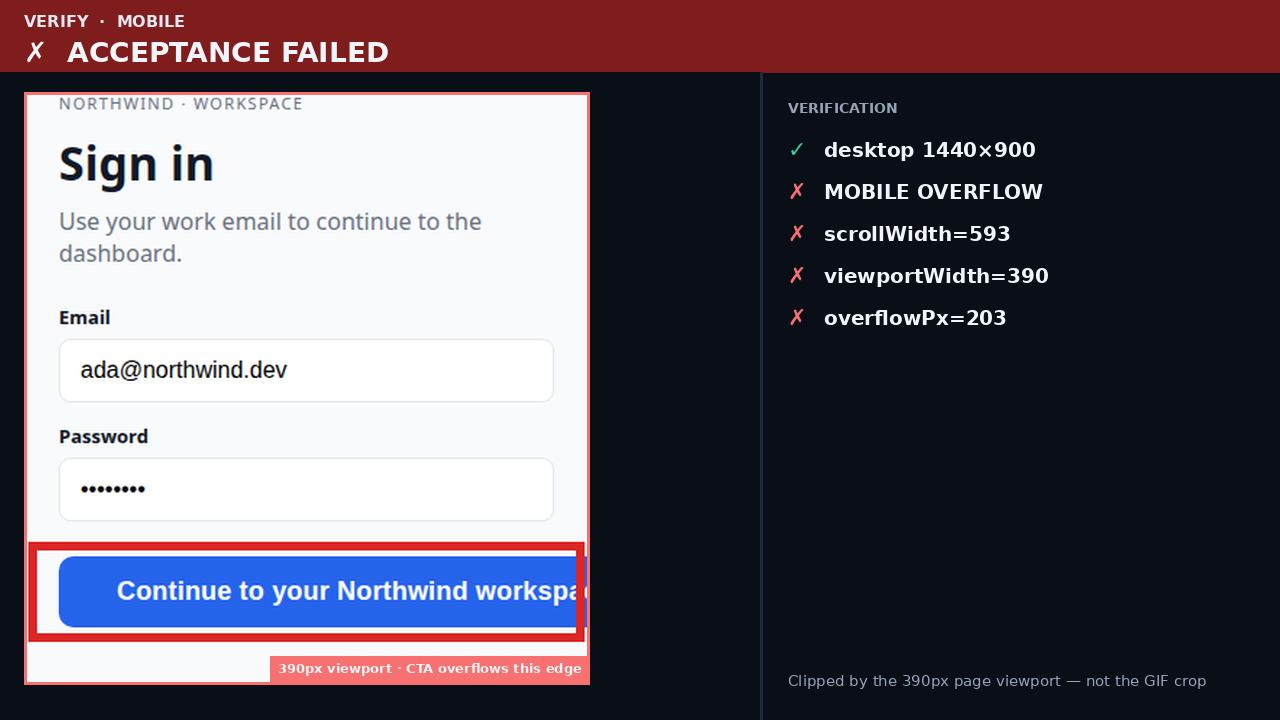
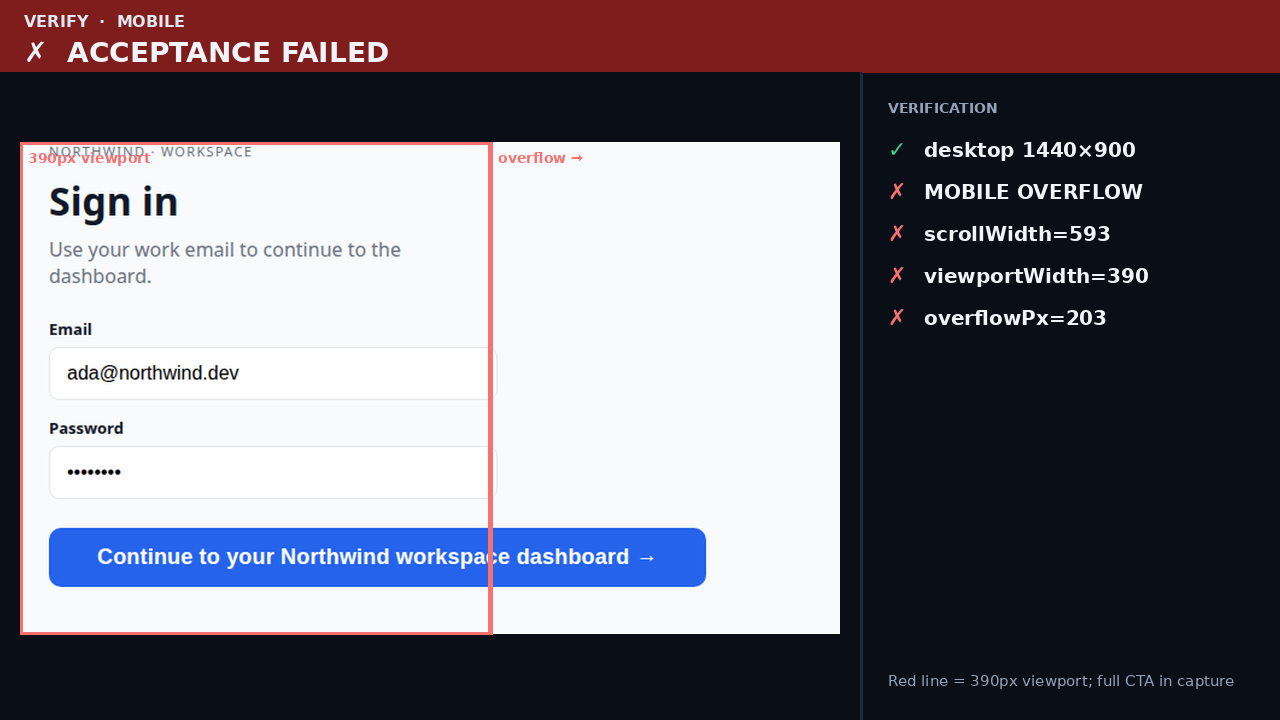
Show the full CTA in the hero GIF using a wide Chromium capture.
Failure frames overlay the real 390px viewport on a wider screenshot so
overflow is visible without the GIF canvas cutting the button text.

Changed region(s): [[0.0, 0.1222, 0.9062, 0.9778], [0.625, 0.9167, 0.9375, 0.9778], [0.5938, 0.9167, 0.625, 0.9472]]

diff --git a/scripts/build_release_assets.py b/scripts/build_release_assets.py
@@ -221,7 +221,28 @@ def social() -> Image.Image:
 
 W, H = 1280, 720
 HEAD_H = 72
-LEFT_W = 760
+LEFT_W = 860
+
+
+def capture_login(url: str, width: int, height: int) -> Image.Image:
+    """Real Chromium screenshot at an explicit viewport. Used only for GIF composition."""
+    from io import BytesIO
+
+    from playwright.sync_api import sync_playwright
+
+    with sync_playwright() as playwright:
+        browser = playwright.chromium.launch(headless=True)
+        try:
+            page = browser.new_page(
+                viewport={"width": width, "height": height},
+                device_scale_factor=1,
+            )
+            page.goto(url.rstrip("/") + "/login", wait_until="networkidle", timeout=20000)
+            page.wait_for_timeout(200)
+            data = page.screenshot(type="png")
+        finally:
+            browser.close()
+    return Image.open(BytesIO(data)).convert("RGB")
 
 
 def fit_contain(img: Image.Image, tw: int, th: int) -> Image.Image:
@@ -285,6 +306,7 @@ def hero_stage(
     footer: str,
     mood: str = "neutral",
     view: str = "desktop",
+    viewport_px: int | None = None,
 ) -> Image.Image:
     img = Image.new("RGB", (W, H), BG)
     draw = ImageDraw.Draw(img)
@@ -295,20 +317,25 @@ def hero_stage(
 
     pane = Image.new("RGB", (LEFT_W, H - HEAD_H), BG)
     pd = ImageDraw.Draw(pane)
-    inner_w, inner_h = LEFT_W - 48, H - HEAD_H - 56
+    inner_w, inner_h = LEFT_W - 40, H - HEAD_H - 48
     fitted = fit_contain(browser.convert("RGB"), inner_w, inner_h)
-    px = 24
-    py = 20 + max(0, (inner_h - fitted.height) // 2)
+    px = 20
+    py = 16 + max(0, (inner_h - fitted.height) // 2)
     pane.paste(fitted, (px, py))
-    if view.startswith("mobile"):
-        edge = RED if view == "mobile-fail" else GREEN
-        pd.rectangle((px, py, px + fitted.width, py + fitted.height), outline=edge, width=3)
-        tag = "390px viewport · CTA overflows this edge" if view == "mobile-fail" else "390px viewport · CTA fully inside"
+    if view == "mobile-fail" and viewport_px:
+        scale = fitted.width / browser.width
+        edge = px + int(viewport_px * scale)
+        pd.rectangle((px, py, edge, py + fitted.height), outline=RED, width=3)
+        pd.line((edge, py, edge, py + fitted.height), fill=RED, width=4)
+        pd.text((px + 8, py + 8), "390px viewport", fill=RED, font=font(14, True))
+        ox = min(edge + 8, px + fitted.width - 170)
+        pd.text((ox, py + 8), "overflow →", fill=RED, font=font(14, True))
+    elif view == "mobile-ok":
+        pd.rectangle((px, py, px + fitted.width, py + fitted.height), outline=GREEN, width=3)
+        tag = "390px viewport  ·  full CTA visible"
         tw = int(font(13, True).getlength(tag)) + 16
-        tx = px + fitted.width - tw
-        if tx < px:
-            tx = px
-        pd.rectangle((tx, py + fitted.height - 28, px + fitted.width, py + fitted.height), fill=edge)
+        tx = max(px, px + fitted.width - tw)
+        pd.rectangle((tx, py + fitted.height - 28, px + fitted.width, py + fitted.height), fill=(6, 78, 59))
         pd.text((tx + 8, py + fitted.height - 24), tag, fill=INK, font=font(13, True))
     img.paste(pane, (0, HEAD_H))
     draw.rectangle((LEFT_W, HEAD_H, LEFT_W + 2, H), fill=LINE)
@@ -395,7 +422,19 @@ def main() -> None:
     try:
         cfg = demo_config(url)
         before = run_verification(cfg, cwd=work)
+        overflow = next(
+            r
+            for r in before["results"]
+            if r["check"] == "no-horizontal-overflow" and r["status"] == "failed"
+        )
+        ev = overflow["evidence"]
+        sw, vw = int(ev["scrollWidth"]), int(ev["viewportWidth"])
+        overflow_px = int(ev.get("overflowPx") or (sw - vw))
+        wide = max(sw + 80, 680)
+        fail_wide = capture_login(url, wide, 844)
+        desk_live = capture_login(url, 1440, 900)
         write_demo_app(app, broken=False)
+        ok_390 = capture_login(url, 390, 844)
         after = run_verification(cfg, cwd=work)
     finally:
         server.shutdown()
@@ -405,15 +444,6 @@ def main() -> None:
     adir = Path(after["meta"]["runDir"])
     fail_shot = Image.open(next((bdir / "screenshots").glob("mobile*.png"))).convert("RGB")
     ok_shot = Image.open(next((adir / "screenshots").glob("mobile*.png"))).convert("RGB")
-    desk = Image.open(next((bdir / "screenshots").glob("desktop*.png"))).convert("RGB")
-    overflow = next(
-        r
-        for r in before["results"]
-        if r["check"] == "no-horizontal-overflow" and r["status"] == "failed"
-    )
-    ev = overflow["evidence"]
-    sw, vw = int(ev["scrollWidth"]), int(ev["viewportWidth"])
-    overflow_px = int(ev.get("overflowPx") or (sw - vw))
 
     proof_text = (adir / "proof.txt").read_text(encoding="utf-8")
     # Copy raw artifacts for docs
@@ -431,9 +461,9 @@ def main() -> None:
     write_svg_loop(ASSETS / "diagrams" / "verification-loop.svg")
     write_svg_acceptance(ASSETS / "diagrams" / "acceptance-flow.svg")
 
-    desk_ui = crop_desktop_ui(desk)
-    fail_ui = highlight_cta(crop_mobile_ui(fail_shot))
-    ok_ui = crop_mobile_ui(ok_shot)
+    desk_ui = crop_desktop_ui(desk_live)
+    fail_ui = crop_mobile_ui(fail_wide)
+    ok_ui = crop_mobile_ui(ok_390)
 
     gif_frames = [
         hero_stage(
@@ -486,9 +516,10 @@ def main() -> None:
                 ("✗", f"viewportWidth={vw}", "fail"),
                 ("✗", f"overflowPx={overflow_px}", "fail"),
             ],
-            footer="Clipped by the 390px page viewport — not the GIF crop",
+            footer="Red line = 390px viewport; full CTA in capture",
             mood="fail",
             view="mobile-fail",
+            viewport_px=vw,
         ),
         hero_stage(
             fail_ui,
@@ -503,6 +534,7 @@ def main() -> None:
             footer="Evidence on disk under .agent-ui-loop/",
             mood="fail",
             view="mobile-fail",
+            viewport_px=vw,
         ),
         hero_stage(
             ok_ui,
@@ -575,7 +607,7 @@ def main() -> None:
     stills.mkdir(parents=True, exist_ok=True)
     fail_shot.save(stills / "mobile-before.png")
     ok_shot.save(stills / "mobile-after.png")
-    desk.save(stills / "desktop.png")
+    desk_live.save(stills / "desktop.png")
 
     meta = {
         "scrollWidth": sw,
